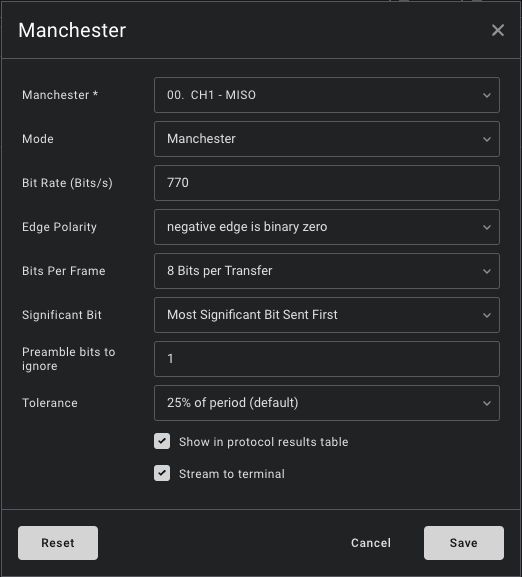
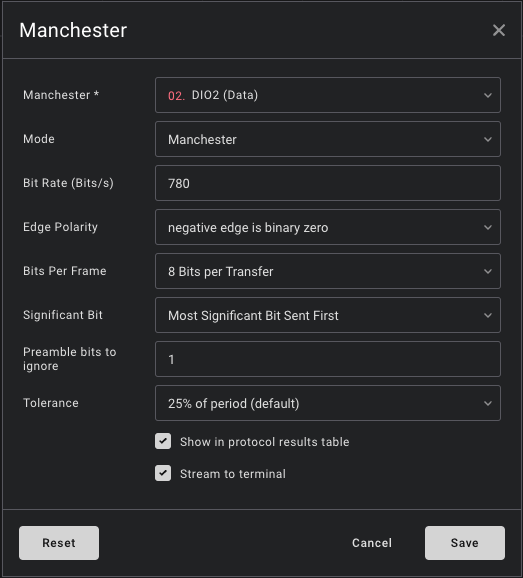
New configuration for SomfyRTS

diff --git a/collections_dir/_projects/2023-12-27-SomfyRTS-controller.md b/collections_dir/_projects/2023-12-27-SomfyRTS-controller.md
@@ -1,7 +1,7 @@
 ---
 title:  "Controller de volet roulant Somfy RTS"
 type: Domotique
-last_modified_at: 2024-01-19 23:00:00 +0100
+last_modified_at: 2024-01-20 17:45:00 +0100
 state: En cours
 math: true
 ---
@@ -53,7 +53,7 @@ téléphone ou depuis internet.
 
 Pour pouvoir communiquer avec les volets en RTS, j'ai décidé d'utiliser le module
 RFM69HCW (module qui semble le plus simple à utiliser pour ce type de projet). De plus,
-de nombreux projets utilise ce type de module pour faire fonctionner leur propre
+de nombreux projets utilisent ce type de module pour faire fonctionner leur propre
 volet roulant Somfy.
 
 Bien entendu, ce projet me permettra de me familiariser avec les ESP32 et l'usage
@@ -66,7 +66,7 @@ Voici le pinout du module RFM :
 ![Broches du module RFM69HCW](/assets/projects/SomfyRTS/RFM69HCW_pinout.png){: width="250" }
 _Brochage du module RFM68HCW_
 
-l'ESP32 que j'utilise est une des première verison montée sur plaque de développement:
+l'ESP32 que j'utilise pour le moment est une des première verison montée sur plaque de développement :
 
 ![Broches du module de dev ESP32](/assets/datasheets/esp32/esp_wroom32_breakout_pin.jpg){: width="500" }
 _Brochage du module de dev ESP32_
@@ -108,12 +108,17 @@ du protocole faite par [PushStack](https://pushstack.wordpress.com/somfy-rts-pro
 
 J'ai vraiement __bien__ galéré sur le bon paramétrage du module RFM69HCW en mode
 réception OOK... Et la datasheet n'est pas super explicite sur la manière d'utiliser
-ce mode.
+ce mode (Et il faut l'avouer, je n'y connais rien en radiofréquences :sweat_smile:).
 
 ### Paramétrage du module RFM69HCW
 
+Afin de procéder au paramétrage du module, j'ai effectué de nombreux essais de
+paramétrages différents. J4ai donc procédé de manière très empirique vu que mes
+connaissances en radiofréquence sont proches de zéro.
+
 Voici donc le paramétrage fonctionnel chez moi pour intercepter correctement
-les signaux de mes télécommandes :
+les signaux de toutes mes télécommandes (même si elles sont situées aux 4 coins
+de la maison) :
 
 1. SPI
    
@@ -149,7 +154,8 @@ les signaux de mes télécommandes :
     | 2    | -      | Non utilisé
     | 1-0  | 00     | Pas de shaping
 
-    > Je n'ai pas constaté de différence entre les différents shaping possibles.
+    > JE n'ai aucune idée de ce qu'est le shaping et son utilité. En tout cas, je n'ai constaté
+    > aucune différence en l'activant ni même entre les différents shaping possibles.
     {: .prompt-info }
 
 3. Bitrate
@@ -169,16 +175,20 @@ les signaux de mes télécommandes :
     ![Bitrate trop élevé](/assets/projects/SomfyRTS/bitrate_trop_eleve.png){: width="500" }
     _Bitrate trop élevé : Détections de fronts montant/descendant non désirés_
    
-   Il s'avère que le paramètre de bande passante (Bandwith) a complètement changé la donne et m'a
-   permis d'avoir des résultats très bon avec un bitrate élevé (Cf. Point qui suit).
+   Malgré tous mes essais en faisant varier ce paramètre, je n'arrivais pas avoir des résultats
+   satisfaisant juisqu'à ce que je modifie le paramètre de bande passante (Bandwith). La modification
+   de la bande passante a complètement changé la donne et m'a permis d'avoir des résultats bien
+   meilleurs et plus stable (Cf. Point qui suit).
 
    Toujours d'après mes lecture, il semble qu'utiliser un bitrate plus élevé que les impulsions
    s'appelle de l'oversampling.
 
    D'après l'analyse de [PushStack](https://pushstack.wordpress.com/somfy-rts-protocol/), un bit est
    transmis en $604\,\mu s$; soit un biterate de $\frac{1}{604 \times 10^{-6}} \approx 1655\,bits/s$.
-   En utilisant ce bitrate, mes lectures sont correctes, outefois parmis toutes les trames que
-   j'ai visualisées, j'ai constaté que deux bits peuvent être transmis entre $1204\,\mu s$ et $1392\,\mu s$.
+   En utilisant ce bitrate, mes lectures sont plutôt correctes :blush:. D'ailleurs il doit y avoir des
+   tolérances importantes car il faut un bitrate inférieur à $1000\,bits/s$ pour que je commence à
+   constater des pertes d'impulsions, ou alors un bitrate supérieur à $2500\,bits/s$ pour que je
+   commence à constater l'apparition de glitchs.
 
    La datasheet indique qu'il faut appliquer la formule suivante pour déterminer la valeur des registres
    RegBitrateMsb (0x03) et RegBitrateLsb (0x04) : $$\frac{F_{XOSC}}{BitRate}$$.
@@ -201,8 +211,8 @@ les signaux de mes télécommandes :
 
 4. Bandwith de réception
 
-   Pour ce paramètre, j'ai testé de manière empirique les valeurs proposées
-   dans la datasheet (Table 14). J'ai eu de très bons résultats avec la valeur 31.3 kHz (Modulation OOK).
+   Pour ce paramètre, j'ai testé de manière empirique les valeurs proposées dans la datasheet
+   (Table 14). J'ai eu de très bons résultats avec la valeur 31.3 kHz (Modulation OOK).
 
     > En revanche, j'ai eu de mauvais résultats en utilisant une largeur de bande plus basse comme
     > par exemple avec la valeur par défaut de 5.2 kHz.
@@ -229,8 +239,8 @@ les signaux de mes télécommandes :
 
    De même avec le mode "average" où j'ai tout le temps de la friture sur la ligne.
 
-   Le seul type de seuil que j'arrive à faire marcher c'est le type "peak" avec une période de décrément
-   à une fois tou s les 8 "chips".
+   Le seul type de seuil que j'arrive à faire marcher c'est le type "peak". J'ai adapté la période de décrément
+   à une fois tous les 8 "chips", ce qui a permis à ce que j'arrive à "sniffer" TOUTES mes télécommandes ! :sunglasses:
 
    Données du registre RegOokPeak (0x1B) :
 
@@ -244,13 +254,13 @@ les signaux de mes télécommandes :
    la réception même si l'on est en threshold type "peak".
 
    Dans mon cas, les meilleurs résultats ont été obtenu en fixant le registre "RegOokFix" (0x1D) à
-   une valeur de 40 dB.
+   une valeur de 30 dB.
 
-   Données du registre RegOokFix (0x1D) :
+   Données du registre RegOokFix (0x1E) :
 
     | Bits | Valeur          | Signification
     |------|-----------------|--------------
-    | 7-0  | 00101000 (0x28) | Seuil du mode "fixed" en dB (0x28 = 40 dB)
+    | 7-0  | 00011110 (0x1E) | Seuil du mode "fixed" en dB (0x1E = 30 dB)
 
 6. Fréquence
 
@@ -298,7 +308,7 @@ les signaux de mes télécommandes :
 8. Calibration
 
    Pour la gloire de la horde, j'effectue aussi une calibration de l'oscillateur (mais je doute
-   fort que celà est un impacte fort sur la lecture).
+   fort que celà est un impacte important sur la lecture).
 
    Je positionne donc le bit n°7 du registre "RegOsc1" (0x0A) permettant de déclancher
    la calibration de l'oscillateur (ATTENTION : Cette calibration ne peut se faire qu'en mode
@@ -323,7 +333,7 @@ analyseur logique pour pouvoir visualiser les trames du module RFM69HCW...
 Voici la configuration qui marche chez moi avec mon analyseur logique :
 
 - Mode : Manchester
-- Bit rate : 770 bits/s
+- Bit rate : 780 bits/s
 - Edge polarity : negative edge is binary zero
 - Bits per Frame : 8
 - Significant bit : MSB first
@@ -337,9 +347,6 @@ Et là, bingo, tout est nikel :
 
 ![Exemple de trame lue](/assets/projects/SomfyRTS/Exemple_trame.png)
 _Exemple de trame lue_
-
-> Cette trame a été lue depuis une télécommande "Telis 4 RTS".
-{: .prompt-info }
 
 ### Interprétation d'une trame
 
@@ -355,24 +362,22 @@ Quelques exemples :
 - Les impulsions de "hw.sync." sont plutot de l'ordre de 2,6ms
 - Les symboles ont une impusion d'environ 1300/1350us
 
-> Il est tout a fait plausible que ces écarts soient liés à mon équipement (chinois à pas cher) qui est
-> très certainement moins précis, ou alors à la télécommande que j'ai utilisée.
+> Il est tout a fait plausible que ces écarts soient liés aux télécommandes que j'ai utilisée.
+> D'ailleurs, les temps que je constate sont souvent différents d'une télécommande à une autre.
 {: .prompt-info }
 
-### Cas des télécommandes "Centralis RTS"
+## Code de lecture d'une trame
 
-Par curiosité, j'ai été analyser une trame envoyée par mes télécommandes positionnée juste à côté de
-mes fenêtres (des "Centralis RTS")... Et là, stupeur ! Les trames sont bien différentes :
+Concernant le code pour lire une trame SomfyRTS, il suffit d'aller sur mon repo GitHub.
 
-![Exemple de trame Centralis](/assets/projects/SomfyRTS/trame_centralis_rts.png)
-_Exemple de trame Centralis_
+## La suite...
 
-On retrouve bien toutes les phases, mais cette fois-ci, on se retrouve avec des impulsions au lieu de niveaux
-logiques maintenus... Comme si chaque front montant et descendant du protocol manchester était chacun
-représenté par une impulsion.
-
-L'algorithme pour que mes lectures soient compatibles entre les deux téélcommande va être plus complexe
-que prévu...
+Pour la suite de ce projet, je prévois :
+- Un bon coup de refactoring de code et créer ma propre library pour le RFM69
+- Trouver un écran tactile et trouver comment l'utiliser avec un ESP32
+- Créer un circuit imprimé avec tout ce beau monde
+- Créer un beau boitier pour tout mettre dedans
+- Et coder une petite interface pour pouvoir gérer mes volets depuis ce futur boitier
 
 ## Liens externes et documentations
 
